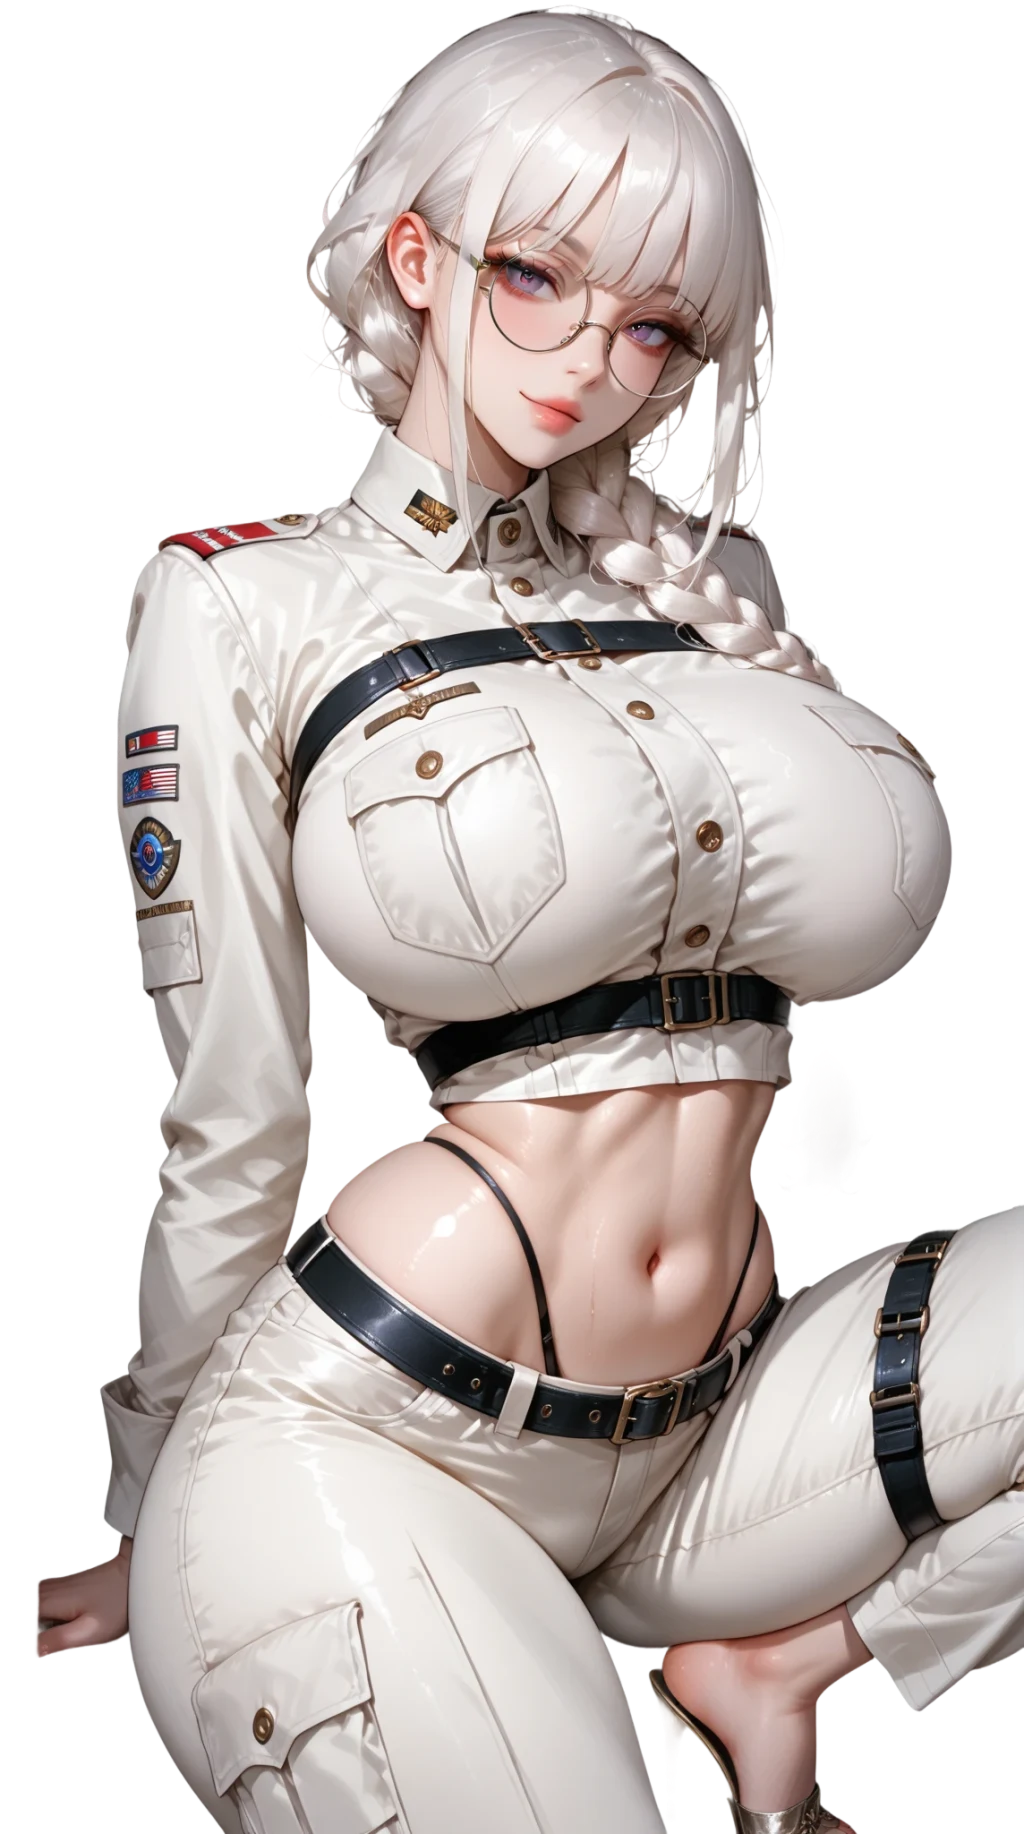
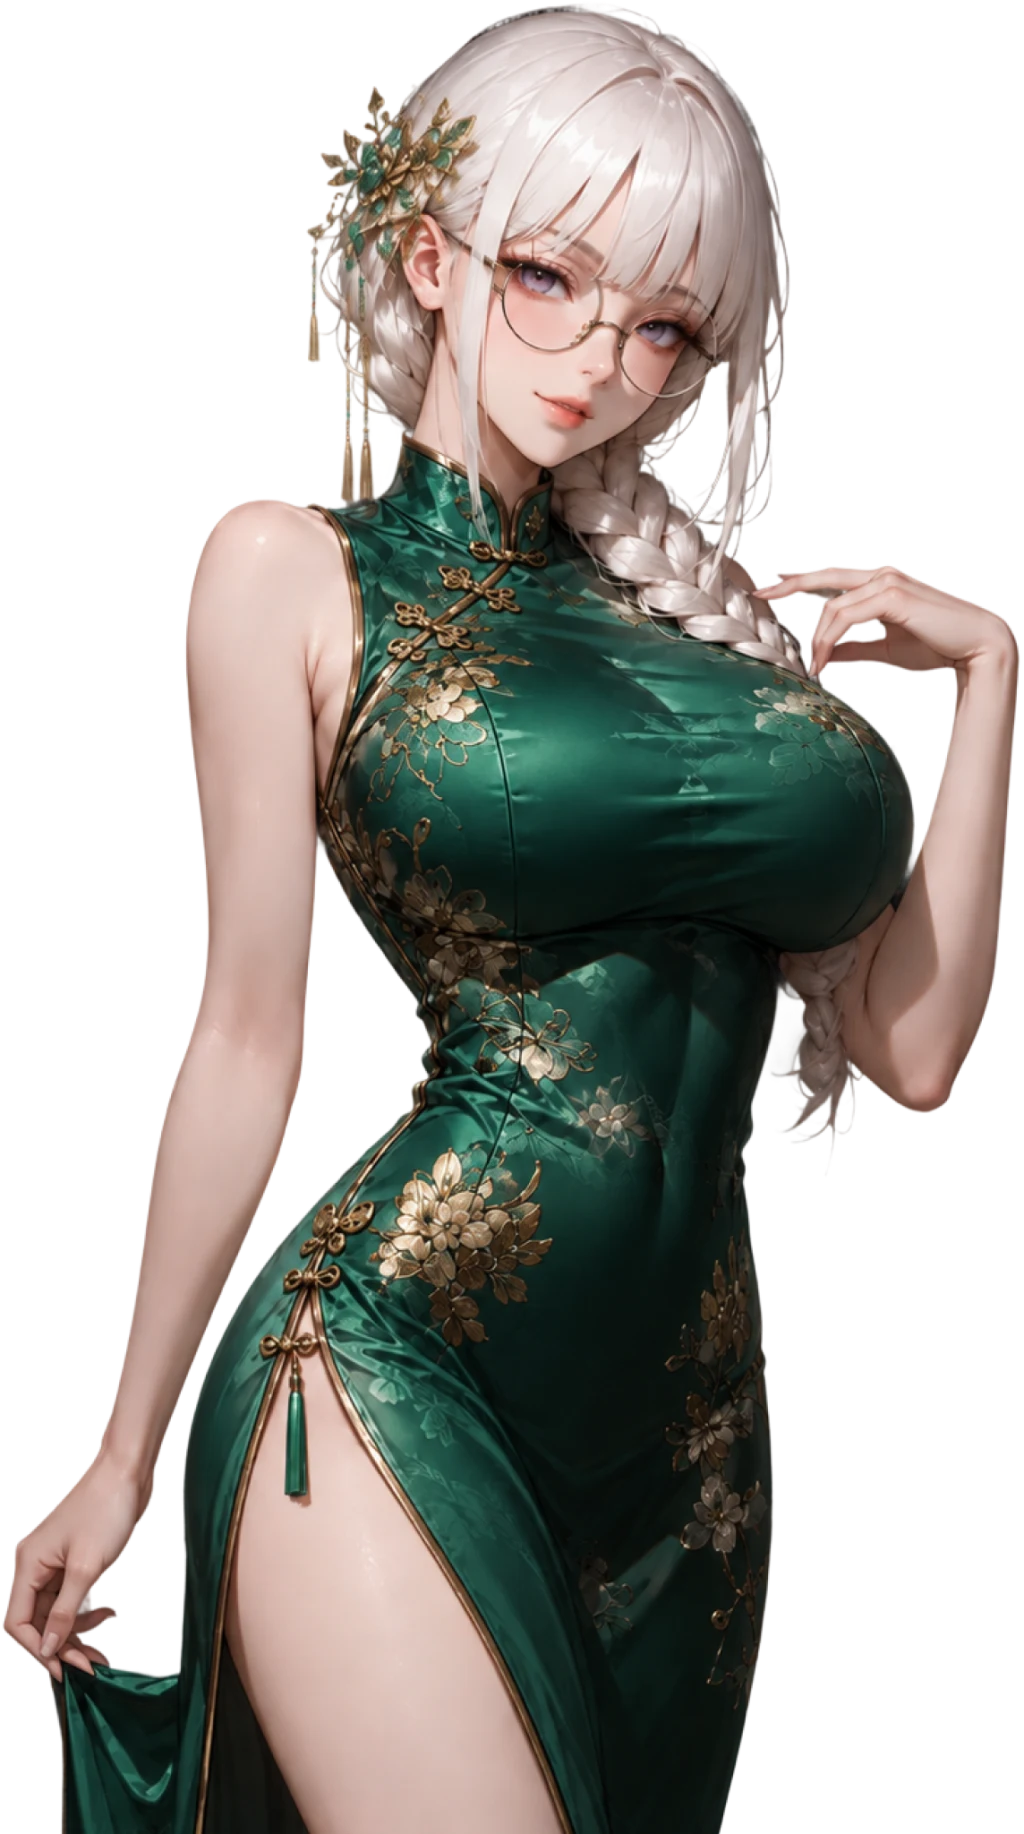
컷씬: bg/base/cutscene 이미지 정리 (이거 써 폴더 기준)
- bg-scene.webp = bg.png (배경만, 캐릭터 없음)
- iseol-base.webp = 기본이미지.png (1턴, 군복)
- iseol-cutscene.webp = 2번 이미지.png (2턴+, 컷씬 reveal)
- HTML 구조 원복: bg는 .char-img 고정, .char-img-overlay에서 캐릭터 스왑

diff --git a/cutscene-prototype.html b/cutscene-prototype.html
@@ -1522,9 +1522,9 @@ body.intro-mode .stat-panel{display:none !important}
 📜 진행도: [초기 탐색]</div><div class="stat-handle"></div></div>
 
   <div class="char-area" id="charArea">
-    <!-- 1턴 = bg-scene (전체 씬), 2턴+ = iseol-cutscene (블러+잠금) -->
-    <div class="char-img" id="charImgArea" style="background-image:url('./images/bg-scene.webp')"></div>
-    <div class="char-img-overlay" hidden></div>
+    <!-- bg는 고정, 캐릭터 오버레이만 1턴/컷씬 스왑 -->
+    <div class="char-img" style="background-image:url('./images/bg-scene.webp')"></div>
+    <div class="char-img-overlay" id="charImgArea" style="background-image:url('./images/iseol-base.webp')"></div>
     <div class="char-visual">🗡</div>
 
     <!-- 컷씬 잠금 오버레이 -->
